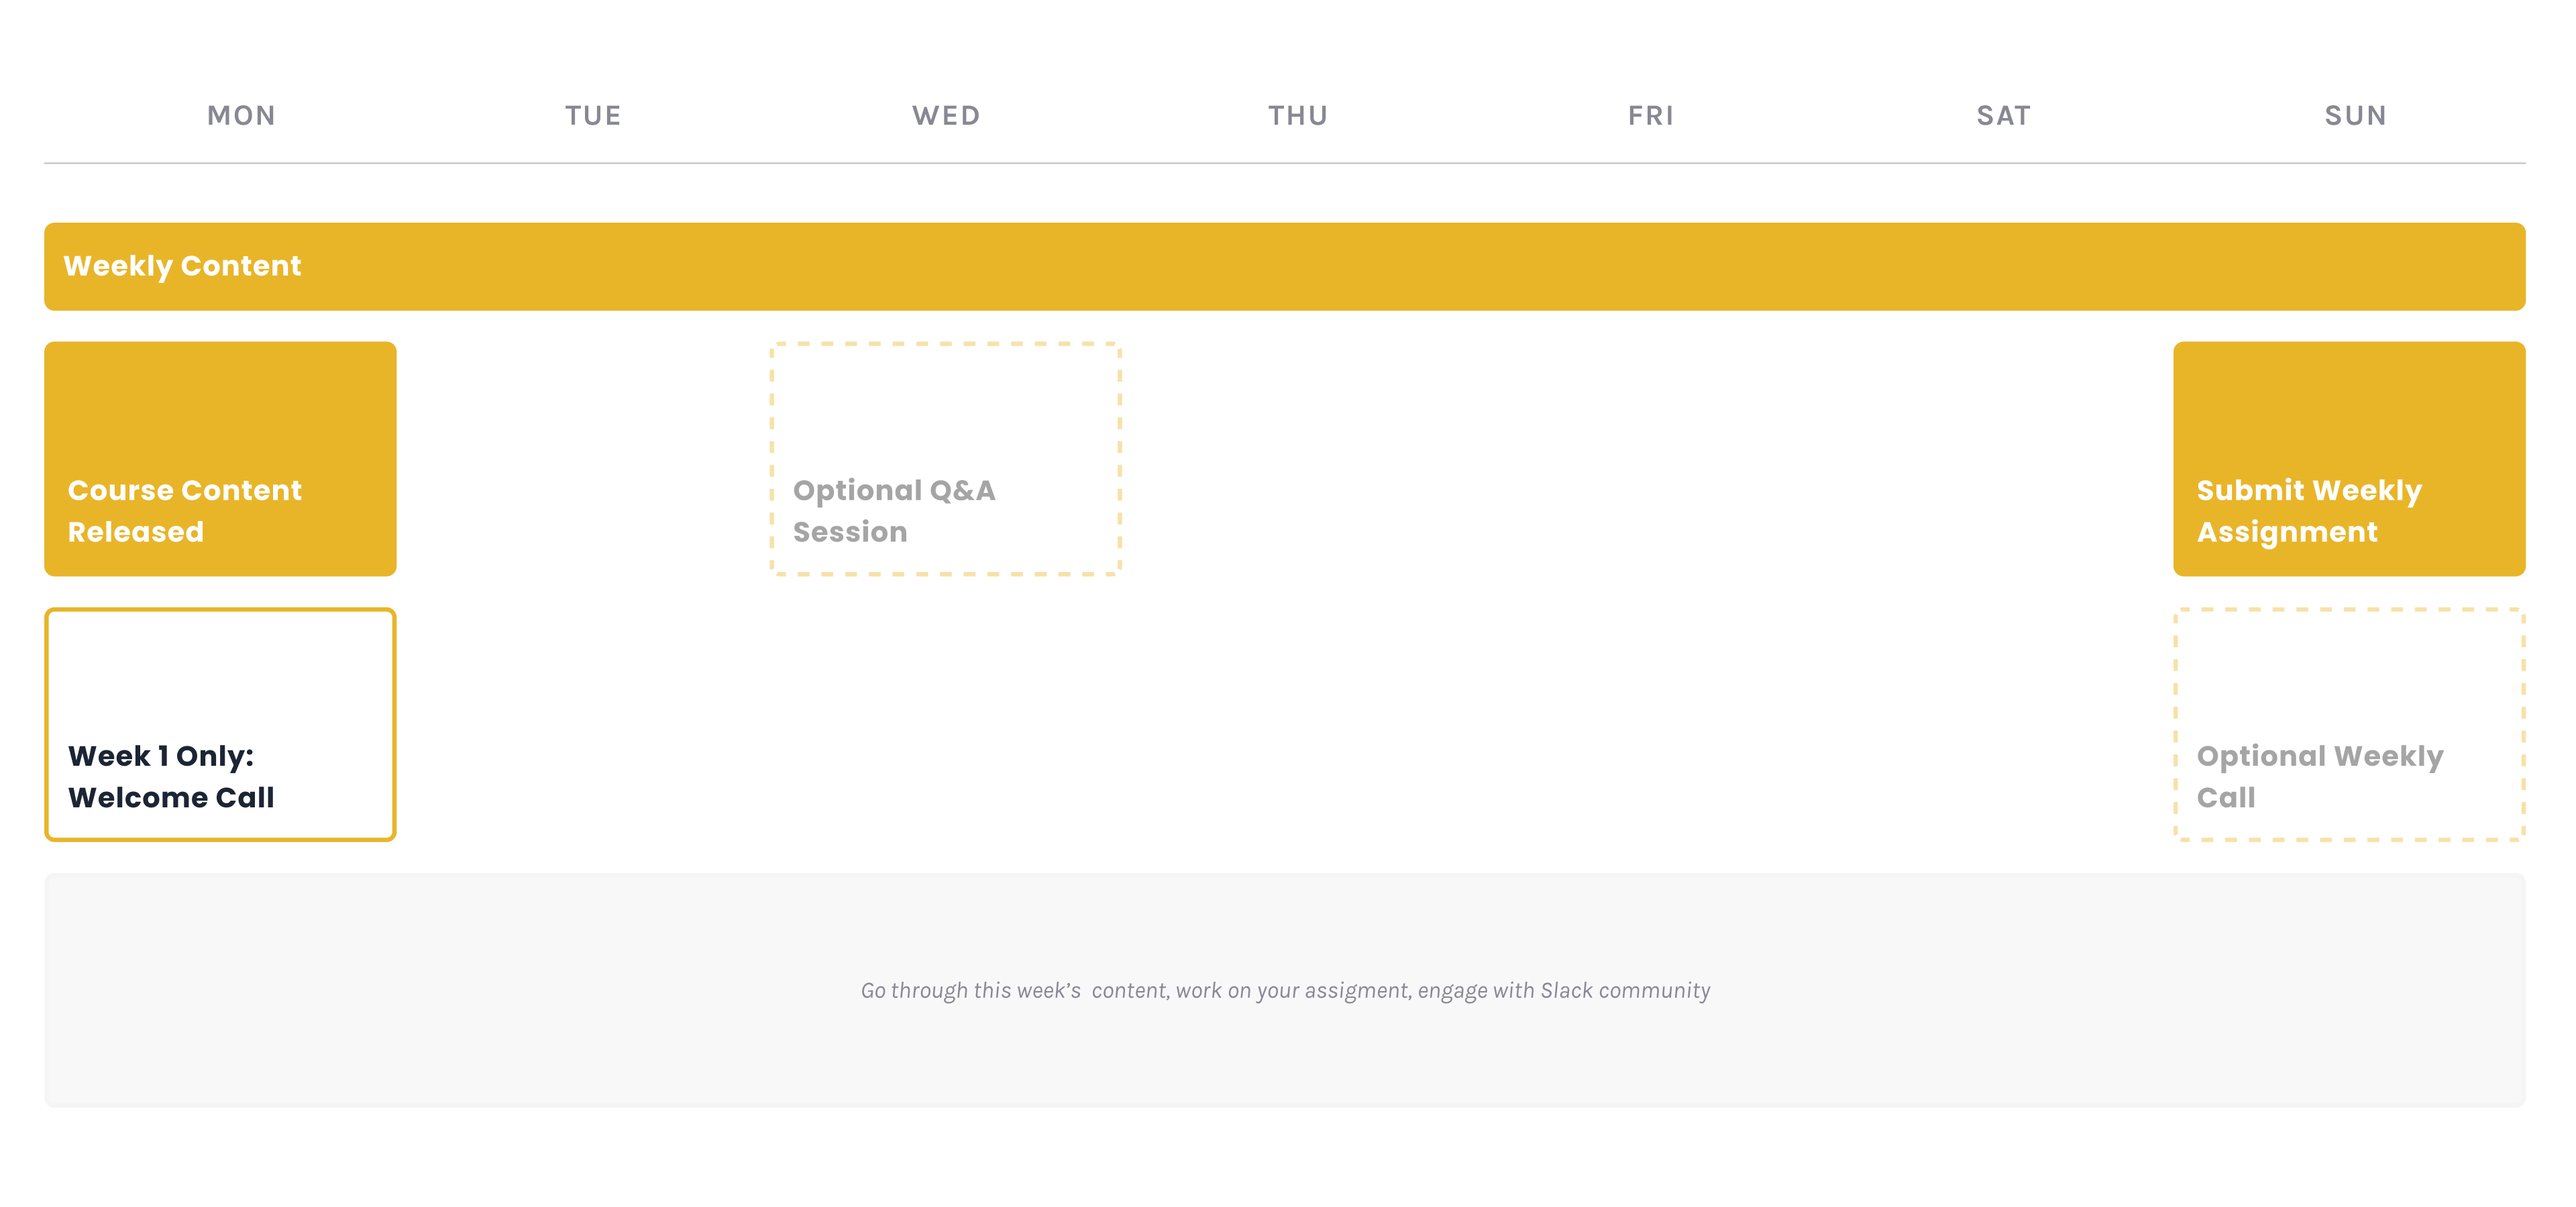
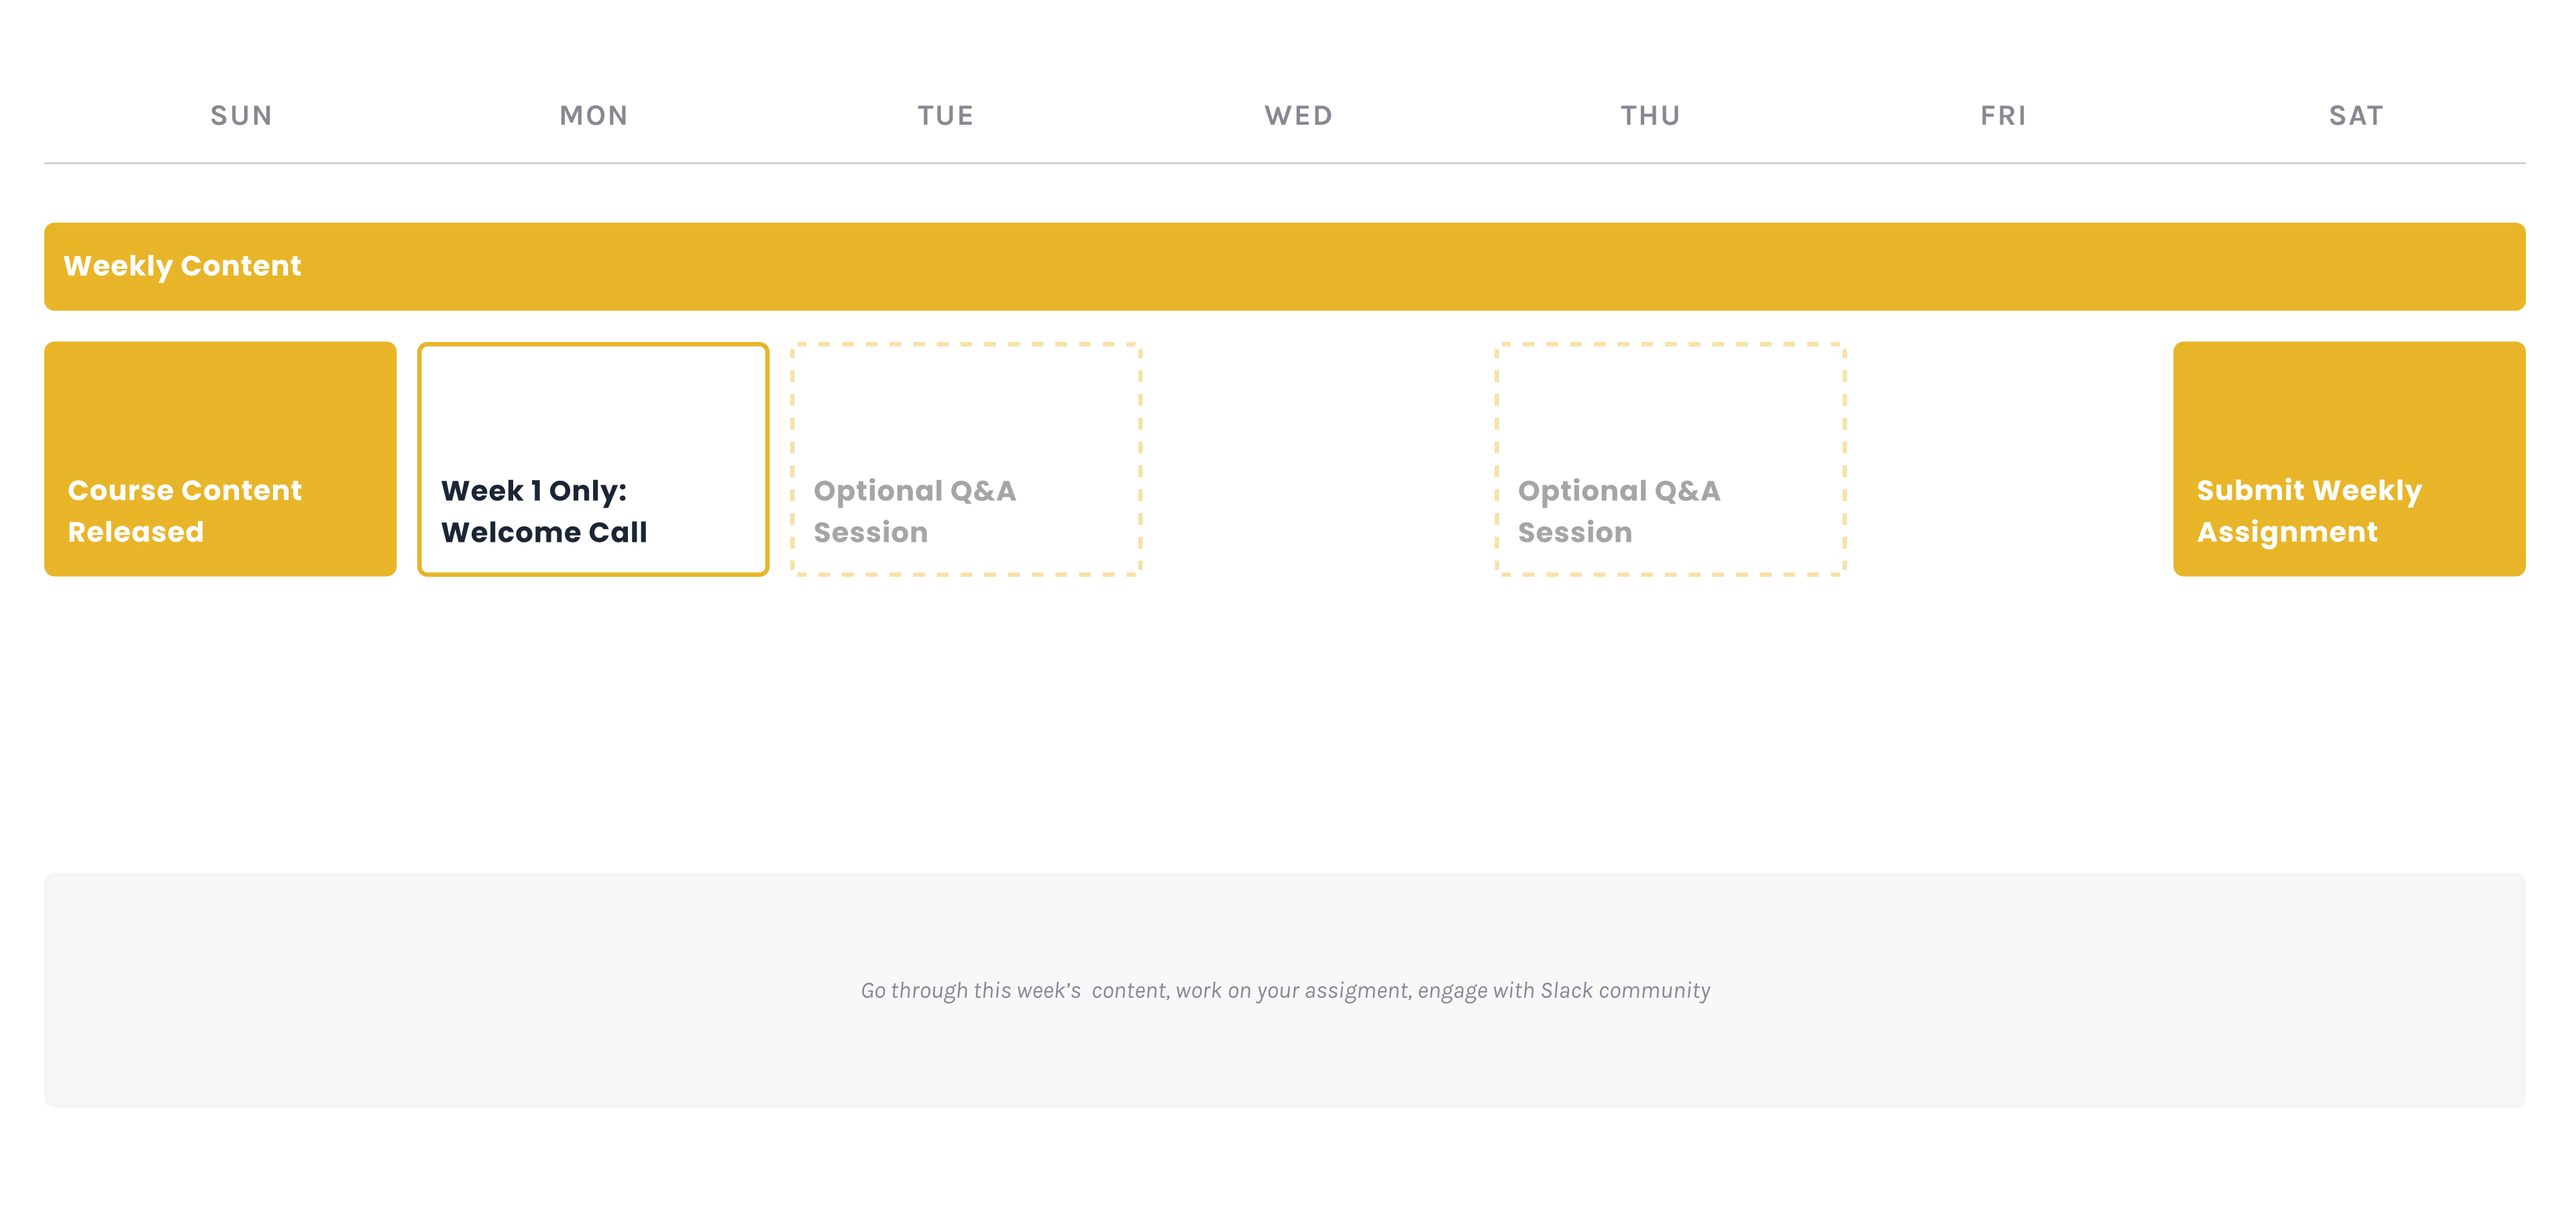
hide Prod MBA Apply buttons

diff --git a/src/components/blocks/Curriculum/Curriculum.js b/src/components/blocks/Curriculum/Curriculum.js
@@ -71,7 +71,7 @@ const contentOne = (
     <br />
     <p>
       <b>
-        Join our next intake, starting on May 11th 2020. Try the 7-day mini MBA
+        Join our next intake, starting on June 30th 2020. Try the 7-day mini MBA
         to see if the Prod MBA is right for you. We will notify you when
         applications open. Space is limited to 30 participants.
       </b>
@@ -162,16 +162,19 @@ const contentThree = (
 
 const contentFour = (
   <div>
-    <p>The programme will run from 6 weeks, starting on Monday 11th May.</p>
+    <p>
+      The programme will run for 6 weeks, with the next cohort starting June
+      30th
+    </p>
     <br />
     <p>
-      On Sunday of each week, we will realise the content for that week on our
+      On Saturday of each week, we will realise the content for that week on our
       online portal, which we will invite you to during the onboarding process.
     </p>
     <br />
     <p>
       There will be 2-3 videos to watch to provide you with some theory, with a
-      real-world exercise to complete by Friday 5pm CET before our group call.
+      real-world exercise to complete by Friday 12pm CET before our group call.
     </p>
     <br />
     <p>
@@ -241,11 +244,9 @@ const contentFive = (
 const contentSix = (
   <div>
     <p>
-      We are launching our first cohort on May 11th 2020, so are offering the
-      programme for free (although we plan to charge $2,999 in future). Despite
-      it being free, we are being extremely careful in which applicants we
-      select for the programme, to ensure we are able to deliver huge results.
-      There are only 30 places available.
+      The programme costs €999. Please note that we are extremely careful in
+      which applicants we select for the programme, to ensure we are able to
+      deliver real results. There are only 20 places available in each cohort.
     </p>
     <br />
     <p>&nbsp;</p>

diff --git a/src/components/views/Mba/Mba.js b/src/components/views/Mba/Mba.js
@@ -478,10 +478,10 @@ export default class Mba extends Component {
         <Hero
           title="Master Product With The Prod MBA"
           subtitle="Learn the fundamentals of business & strategy to deliver a real, revenue-generating product in our part-time, 6-week programme:"
-          externalPage
-          url="https://calendly.com/henry_latham/prod-mba"
-          btnText="Apply For The Prod MBA Now"
-          mixpanelPageEvent={mixpanelPageEvent}
+          // externalPage
+          // url="https://calendly.com/henry_latham/prod-mba"
+          // btnText="Apply For The Prod MBA Now"
+          // mixpanelPageEvent={mixpanelPageEvent}
         />
         <Description
           header="This is Not Just Another Course"
@@ -491,8 +491,8 @@ export default class Mba extends Component {
           url={url}
         />
         <Newsletter
-          title="Get The Free 7-Day Mini MBA"
-          subtitle="Subscribe and get the free 7-day email course, explaining the steps towards building a profitable, boostrapped product:"
+          title="Try The Free 7-Day Mini MBA"
+          subtitle="Subscribe and get the free 7-day email course, explaining the steps towards building a profitable, boostrapped product & giving you a taster of the full Prod MBA (we'll let you know when applications are open by email):"
           mailchimpForm
           url={url}
         />
@@ -508,9 +508,11 @@ export default class Mba extends Component {
               target="_blank"
               rel="noopener noreferrer"
             >
-              <Button onClick={this.goToFaqApply}>
-                Apply For The Prod MBA Now
-              </Button>
+              {
+                //   <Button onClick={this.goToFaqApply}>
+                //   Apply For The Prod MBA Now
+                // </Button>
+              }
             </a>
           </div>
         </div>

diff --git a/src/components/views/Home/Home.js b/src/components/views/Home/Home.js
@@ -22,11 +22,11 @@ export default class Home extends Component {
         <Header light />
         <Hero
           title="We Teach You to Build a Profitable Product in 6 weeks"
-          subtitle="Worried about your job security or levelling up your CV? Want to start a side hustle or your own business? Join our mini Prod MBA programme to deliver a real, revenue-generating product in 6 weeks:"
+          subtitle="Worried about your job security or levelling up your CV? Want to start a side hustle or your own business? Sign up for our free Mini MBA programme to learn how to deliver a real, revenue-generating product in 6 weeks:"
           btnText="Join Mini MBA"
-          subText="Access to the Prod MBA is now open:  "
+          subText="Applications for the Prod MBA are currently closed:  "
           subTextUrl="/product-mba"
-          subTextUrlText="Apply Now"
+          subTextUrlText="Learn More"
           mixpanelPageEvent={mixpanelPageEvent}
           mailchimpForm
           url={url}
